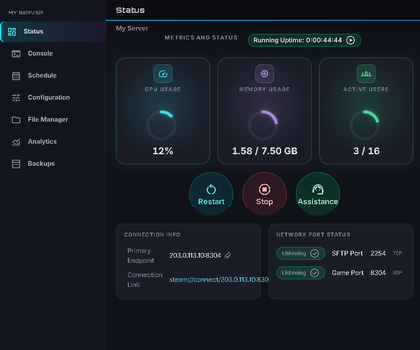
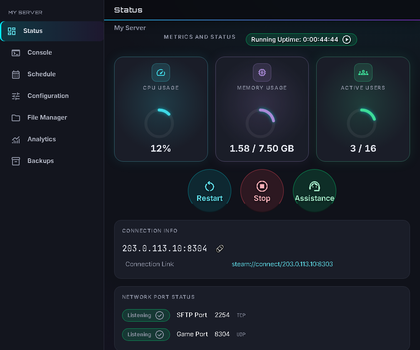
TeamKit: preview cropped like the other themes; TeamKit-HUD 1.2: long connection links wrap inside their card, layout stacks on narrow screens and phones, folded side menu fixed, no live blur on server cards

diff --git a/TeamKit-HUD/TeamKit-HUD.css b/TeamKit-HUD/TeamKit-HUD.css
@@ -1,6 +1,6 @@
 @import url('https://fonts.googleapis.com/css2?family=Inter:wght@400;500;600;700&family=Orbitron:wght@600;700;800&family=JetBrains+Mono:wght@400;500&display=swap');
 
-/* TeamKit HUD theme for AMP (v1.1, 2026)
+/* TeamKit HUD theme for AMP (v1.2, 2026)
    The TeamKit theme plus a game-HUD layout of the instance Status page: three large glowing gauges
    (CPU, memory, players) and big round start / stop / restart buttons. Made by the TeamKit community. */
 
@@ -662,16 +662,12 @@ p.inlineWarning {
 .InstanceList .ServerEntry .ServerEntryTop .ServerEntryStatus {
   font-weight: 600;
   letter-spacing: 0;
-  -webkit-backdrop-filter: blur(6px);
-  backdrop-filter: blur(6px);
 }
 
 .InstanceList .ServerEntry .ServerEntryMetrics .ServerEntryMetric {
-  background-color: rgba(10, 10, 15, 0.72);
+  background-color: rgba(10, 10, 15, 0.8);
   border: 1px solid rgba(255, 255, 255, 0.06);
   border-radius: 10px;
-  -webkit-backdrop-filter: blur(6px);
-  backdrop-filter: blur(6px);
 }
 .InstanceList .ServerEntry .ServerEntryMetrics .ServerEntryMetric .mat-icon {
   color: var(--tk-cyan-texte);
@@ -688,8 +684,6 @@ p.inlineWarning {
 .InstanceList .ServerEntry .ServerEntryActions {
   border-radius: 10px;
   border: 1px solid var(--tk-bord);
-  -webkit-backdrop-filter: blur(6px);
-  backdrop-filter: blur(6px);
 }
 .InstanceList .ServerEntry .ServerEntryActions .iconButton {
   background-color: rgba(10, 10, 15, 0.75);
@@ -1121,7 +1115,7 @@ table.rowSelect tbody tr:active {
 .DisplayMetric[data-metric="MemoryUsage"] { --m: var(--m-ram); --m-icone: 'memory'; }
 .DisplayMetric[data-metric="ActiveUsers"] { --m: var(--m-joueurs); --m-icone: 'groups'; }
 .DisplayMetric { --m: var(--tk-cyan-texte); }
-.DisplayMetric .circleChart svg circle.value { stroke: var(--m) !important; filter: drop-shadow(0 0 5px color-mix(in srgb, var(--m) 55%, transparent)); }
+.DisplayMetric .circleChart svg circle.value { stroke: var(--m) !important; }
 .DisplayMetric .circleChart svg circle { stroke-width: 9; }
 
 /* Icône de la jauge (police d'icônes d'AMP, déjà chargée) */
@@ -1166,6 +1160,10 @@ table.rowSelect tbody tr:active {
 .listenPort > span:first-child { color: var(--tk-texte-3); }
 .ProtocolName { color: var(--tk-texte-3); font-family: var(--tk-mono); font-size: 12px; }
 .listenPort .AppStatus { text-shadow: none; font-weight: 600; font-size: 13px; }
+/* The main address: big, monospaced, easy to read and copy */
+#statusActions > div:nth-child(2) div.listenPort:first-of-type > span:first-child { display: none; }
+#statusActions > div:nth-child(2) div.listenPort:first-of-type > span:last-child { font-family: var(--tk-mono); font-size: 20px; color: var(--tk-texte); padding-left: 0; }
+#statusActions > div:nth-child(2) div.listenPort:first-of-type a { font-size: 18px; }
 /* G · HUD : comme l'écran d'un jeu — trois grands cadrans centrés et lumineux, gros boutons ronds dessous. */
 #tab_status:not([style*="none"]) {
   display: grid !important; gap: 18px; align-content: start;
@@ -1175,7 +1173,7 @@ table.rowSelect tbody tr:active {
 #statusActions { display: contents !important; }
 .metricsHeader { grid-area: tete; margin: 0; justify-content: center; gap: 16px; }
 .metricsHeader .grow { display: none; }
-#AMP_Core_MetricsDisplay { grid-area: jauges; margin: 0 !important; grid-template-columns: repeat(3, minmax(0, 1fr)) !important; gap: 18px !important; }
+#AMP_Core_MetricsDisplay { grid-area: jauges; margin: 0 !important; grid-template-columns: repeat(auto-fit, minmax(170px, 1fr)) !important; gap: 18px !important; }
 .DisplayMetric {
   height: 250px; flex-direction: column; align-items: center; justify-content: center; position: relative;
   background: radial-gradient(circle at 50% 45%, color-mix(in srgb, var(--m) 16%, transparent), transparent 65%), var(--tk-carte);
@@ -1205,3 +1203,45 @@ table.rowSelect tbody tr:active {
 #AMP_Core_ServerStatus button.slideIcon:hover { transform: scale(1.06); }
 #statusActions > div:nth-child(2) { grid-area: adresse; margin: 0; }
 #statusActions > div:nth-child(3) { grid-area: ports; margin: 0; min-width: 0 !important; }
+
+/* ═══════ Narrow screens and phones ═══════
+   Long connection links wrap inside their card instead of overflowing it; the address and ports stack under 1100 px;
+   two gauges per row and smaller round buttons on phones. */
+.listenPort .AppStatus { white-space: nowrap; }
+#statusActions > div:nth-child(2) div.listenPort:first-of-type > span:last-child { white-space: nowrap; }
+#statusActions > div:nth-child(2) div.listenPort:first-of-type a { margin-left: 6px; }
+#statusActions > div:nth-child(2) .listenPort a { overflow-wrap: anywhere; word-break: break-all; }
+#statusActions > div:nth-child(2), #statusActions > div:nth-child(3) { min-width: 0; }
+@media screen and (max-width: 1100px) {
+  #tab_status:not([style*="none"]) { grid-template-columns: minmax(0, 1fr); grid-template-areas: "tete" "jauges" "cmd" "adresse" "ports"; }
+}
+@media screen and (max-width: 660px) {
+  #tab_status:not([style*="none"]) { gap: 12px; }
+  #AMP_Core_MetricsDisplay { grid-template-columns: repeat(2, minmax(0, 1fr)) !important; gap: 10px !important; }
+  .DisplayMetric { height: auto; min-height: 176px; padding: 12px 6px; border-radius: 16px; }
+  .DisplayMetric .DisplayMetricHeader::before { width: 34px; height: 34px; font-size: 20px; border-radius: 10px; }
+  .DisplayMetric .DisplayMetricHeader > div:nth-child(1) { font-size: 10px; letter-spacing: .08em; text-align: center; }
+  .DisplayMetric .circleChart { transform: scale(.72); margin: -14px 0 -20px; }
+  .DisplayMetric .DisplayMetricHeader > div:nth-child(2) { font-size: 15px; }
+  #AMP_Core_ServerStatus { gap: 12px !important; flex-wrap: wrap; }
+  #AMP_Core_ServerStatus button.slideIcon { width: 90px; height: 90px; }
+  #AMP_Core_ServerStatus button .mat-icon::after { font-size: 26px; }
+  #AMP_Core_ServerStatus button span:first-child::before { font-size: 11px; }
+  #statusActions > div:nth-child(2) div.listenPort:first-of-type > span:last-child { font-size: 17px; }
+  #statusActions > div { padding: 12px 14px; }
+}
+
+/* Each server card's blurred picture gets its own layer: blurred once, not again on every figure update. */
+.InstanceList .ServerEntry .ServerEntryImage { transform: translateZ(0); }
+
+/* ═══════ Side menu folded to icons (window narrower than 1000 px) ═══════
+   AMP shrinks the menu to 64 px; with our 10 px margins each link was 44 px wide: icon cut and badge sitting on the
+   next icon. Icon centred on the full width, badge at the bottom right of the icon. Only between 661 and 1000 px:
+   below that, AMP switches to its sliding phone menu, with labels. */
+@media screen and (min-width: 661px) and (max-width: 1000px) {
+  #sideMenuPresenter > a > div, #sideMenuPresenter > a > span:not(.mat-icon), .multiMenuContainer > a > div, .multiMenuContainer > a > span:not(.mat-icon) { display: none; }
+  #sideMenu a { margin: 2px 4px; justify-content: flex-start; }
+  #sideMenu a > .mat-icon:first-child, #sideMenu a > img:first-child { flex: 0 0 56px; width: 56px; padding: 10px 0 !important; margin: 0 !important; text-align: center; font-size: 26px !important; }
+  #sideMenu a > .mat-icon.warn { position: absolute; left: 32px; top: 26px; margin: 0 !important; padding: 1px !important; font-size: 15px !important; line-height: 1; height: auto; width: auto; border-radius: 50%; background: var(--tk-fond); }
+  #sideMenu a.padBottom::after { left: 4px; right: 4px; }
+}
